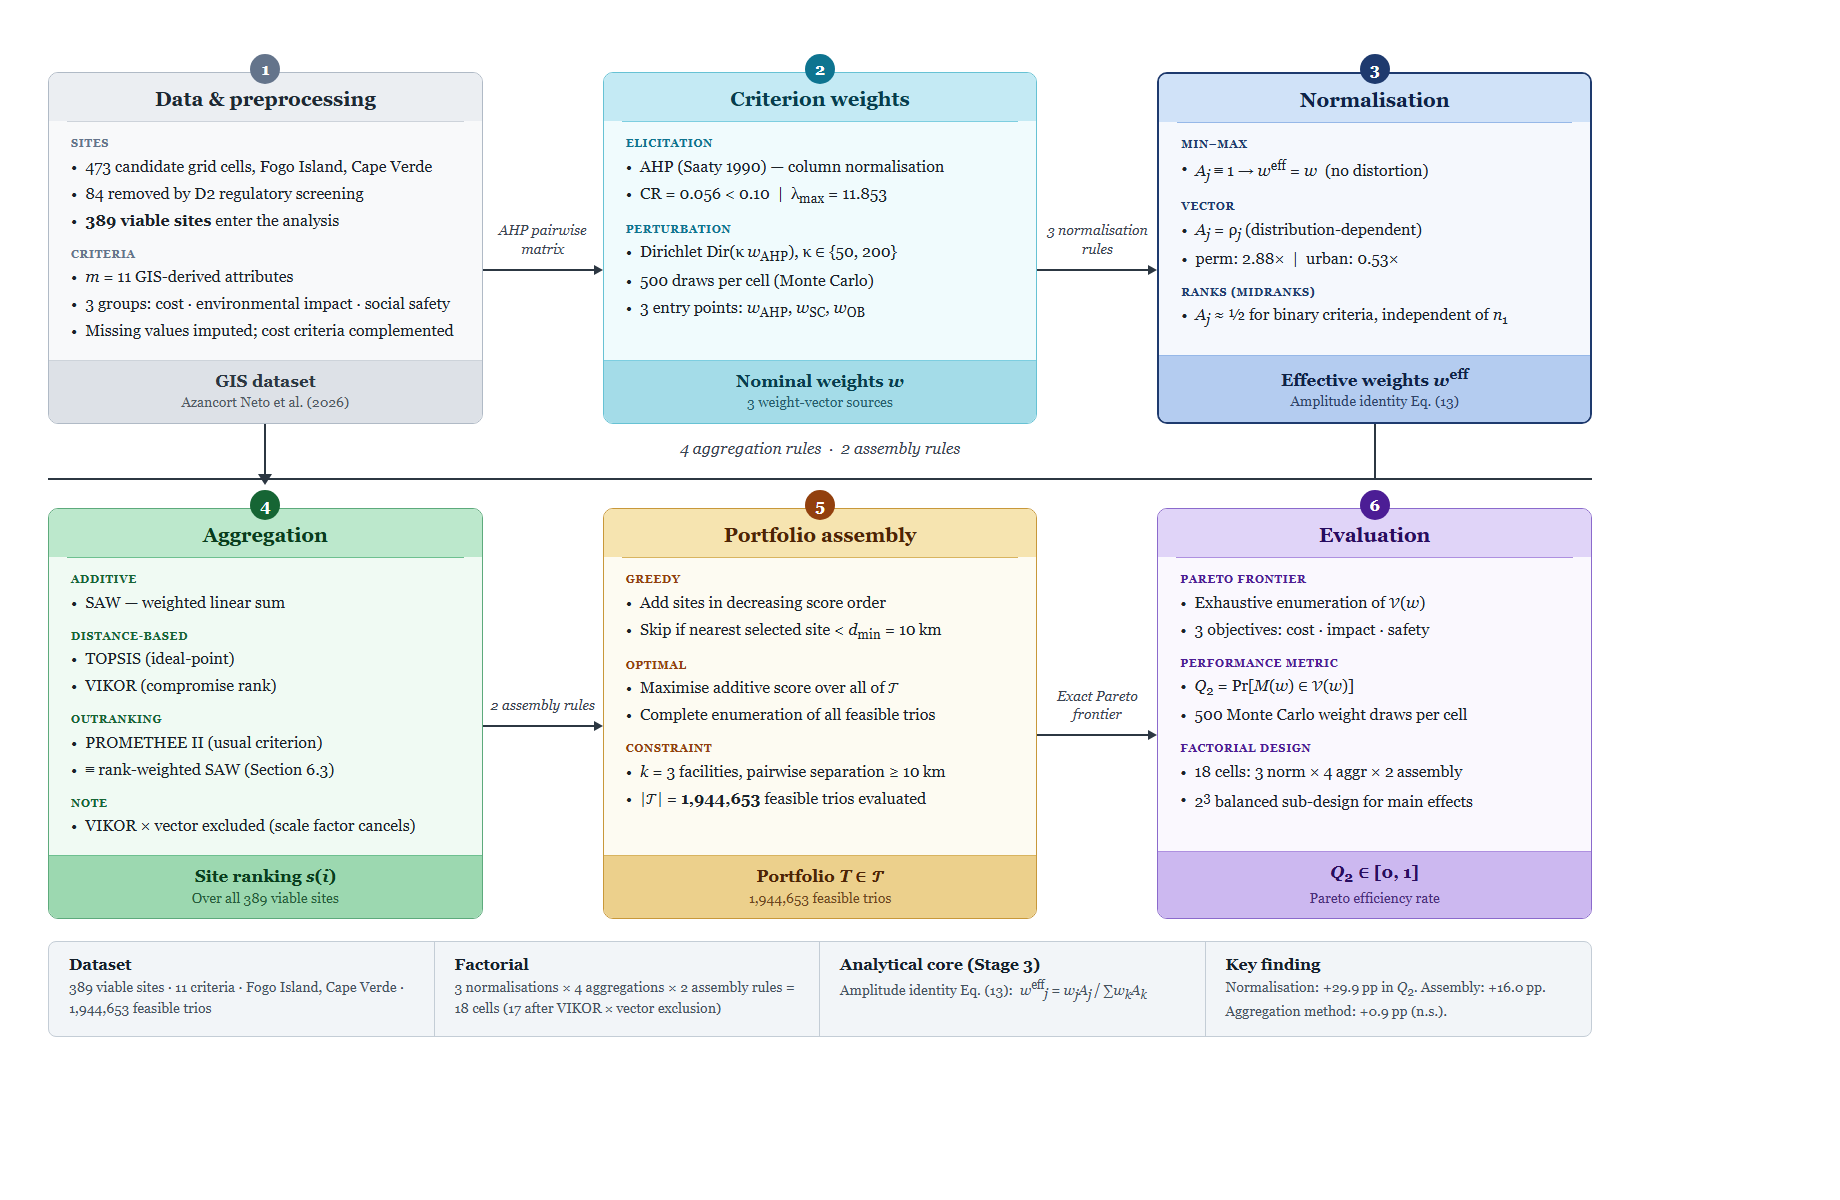
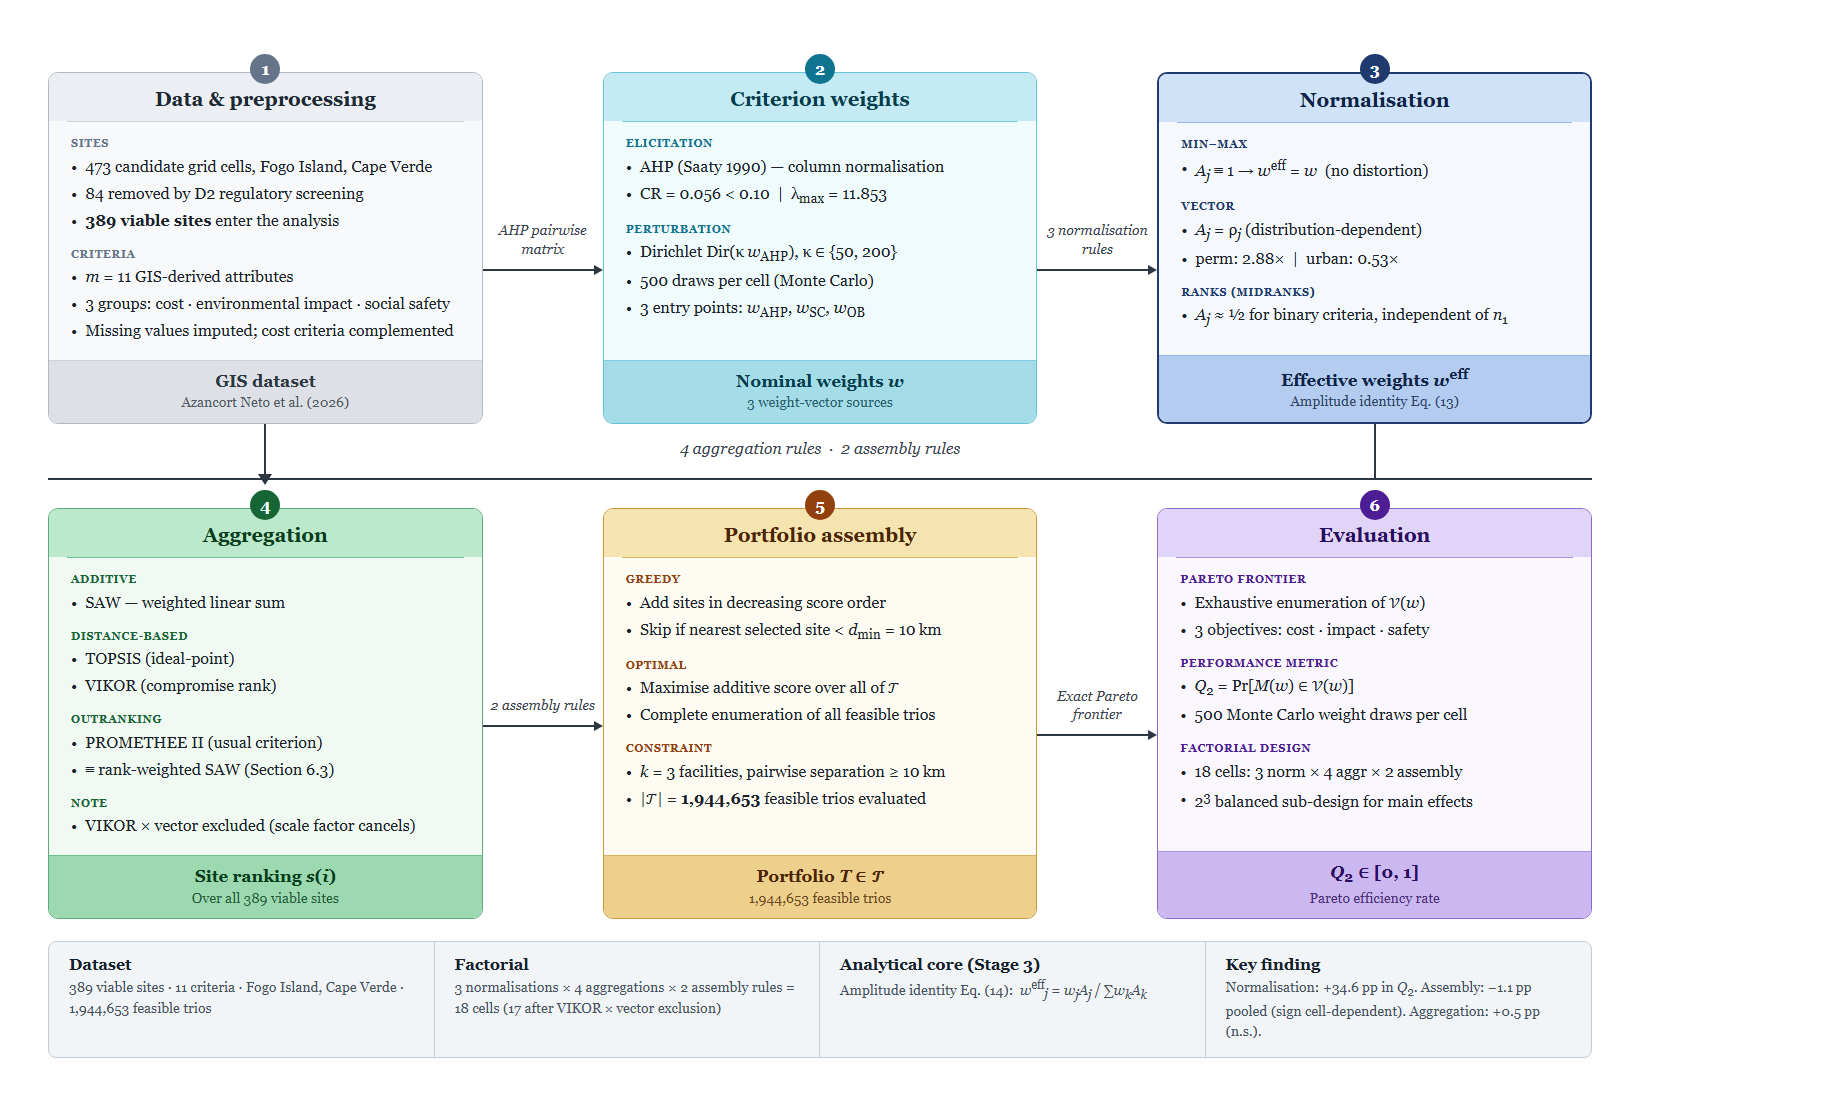
cosmetic: §7.5 post-table text updated; ORCID placeholder+empty fntext removed; Tab6 col shortened (p{5cm}); Fig1 numbers updated (+34.6/−1.1/+0.5pp, Eq.14); Fig1 PNG regenerated; Fig4 regenerated; ALL CHECKS PASSED

Changed region(s): [[0.0, 0.0309, 0.8674, 0.9273], [0.4647, 0.8655, 0.6196, 0.9273]]

diff --git a/figures/src/fig_workflow.html b/figures/src/fig_workflow.html
@@ -413,11 +413,11 @@ body {
     </div>
     <div class="sc">
       <div class="st">Analytical core (Stage&nbsp;3)</div>
-      <div class="ss">Amplitude identity Eq.&nbsp;(13):&nbsp; <em>w</em><sup>eff</sup><sub><em>j</em></sub> = <em>w<sub>j</sub>A<sub>j</sub></em>&thinsp;/&thinsp;&#8721;<em>w<sub>k</sub>A<sub>k</sub></em></div>
+      <div class="ss">Amplitude identity Eq.&nbsp;(14):&nbsp; <em>w</em><sup>eff</sup><sub><em>j</em></sub> = <em>w<sub>j</sub>A<sub>j</sub></em>&thinsp;/&thinsp;&#8721;<em>w<sub>k</sub>A<sub>k</sub></em></div>
     </div>
     <div class="sc">
       <div class="st">Key finding</div>
-      <div class="ss">Normalisation: +29.9&thinsp;pp in <em>Q</em><sub>2</sub>. Assembly: +16.0&thinsp;pp. Aggregation method: +0.9&thinsp;pp (n.s.).</div>
+      <div class="ss">Normalisation: +34.6&thinsp;pp in <em>Q</em><sub>2</sub>. Assembly: &minus;1.1&thinsp;pp pooled (sign cell-dependent). Aggregation: +0.5&thinsp;pp (n.s.).</div>
     </div>
   </div>
 

diff --git a/main.tex b/main.tex
@@ -79,9 +79,8 @@
 \tnotetext[1]{The authors declare no competing interests. No external funding was received for this work.}
 
 % -----------------------------------------------------------------------
-\author[1]{Julio L.~Azancort Neto}[orcid=0000-0000-0000-0000]
+\author[1]{Julio L.~Azancort Neto}
 \cormark[1]
-\fnmark[1]
 \ead{julio.azancort.neto@itec.ufpa.br}
 \credit{Conceptualization, Methodology, Software, Writing -- Original
   Draft, Writing -- Review \& Editing}
@@ -91,7 +90,6 @@
   city={Bel\'em}, state={PA}, country={Brazil}}
 
 \cortext[1]{Corresponding author}
-\fntext[1]{}
 
 % -----------------------------------------------------------------------
 \begin{abstract}
@@ -1907,17 +1905,17 @@ Aggregation & Normalisation, assembly & $Q_2[A']$ \\
 \caption{Contrasts in percentage points of $Q_2[A']$ ($\kappa=200$;
   $\nboot$ bootstrap replicates paired by draw).}
 \label{tab:effects}
-\begin{tabular}{>{\raggedright\arraybackslash}p{5.5cm}rc}
+\begin{tabular}{>{\raggedright\arraybackslash}p{5cm}rc}
 \toprule
 Contrast & Effect & 95\% CI \\
 \midrule
-Normalisation, greedy only (min--max $-$ vector) & $+25.4$ & $[+21.2,\,+29.8]$ \\
-Normalisation, full factorial                    & $+34.6$ & $[+30.7,\,+38.4]$ \\
-Aggregation (SAW $-$ TOPSIS)                     & $+\AggContrast$  & $[\AggLo,\,\AggHi]$ \\
-Assembly (optimal $-$ greedy)                    & $-1.1$  & $[-2.6,\,+0.5]$ \\
+Normalisation, greedy (mm $-$ vec) & $+25.4$ & $[+21.2,\,+29.8]$ \\
+Normalisation, full factorial      & $+34.6$ & $[+30.7,\,+38.4]$ \\
+Aggregation (SAW $-$ TOPSIS)       & $+\AggContrast$ & $[\AggLo,\,\AggHi]$ \\
+Assembly (optimal $-$ greedy)      & $-1.1$ & $[-2.6,\,+0.5]$ \\
 \midrule
-Assembly within min--max                         & $+8.1$  & $[+6.2,\,+10.1]$ \\
-Assembly within vector                           & $-10.2$ & $[-13.1,\,-7.4]$ \\
+Assembly within min--max           & $+8.1$ & $[+6.2,\,+10.1]$ \\
+Assembly within vector             & $-10.2$ & $[-13.1,\,-7.4]$ \\
 \bottomrule
 \end{tabular}
 \end{table}
@@ -2119,10 +2117,15 @@ $\Nvia$  & $A'$ & 86.0\% & \textbf{100.0\%} \\
 \end{tabular}
 \end{table}
 
-Both diagonal cells confirm Section~\ref{prop:p1} (optimal assembly
-must reach $100\%$ when score and evaluator are aligned).
-The off-diagonal cells confirm that score--evaluator coding mismatch
-dominates the reference-set effect.
+Both $A'$-evaluator cells confirm Proposition~\ref{prop:p1:stmt}:
+optimal assembly reaches $100\%$ when score and evaluator share the
+same reference set and criterion encoding.
+The off-diagonal $A$-evaluator cells ($N_{\text{cand}}/A$: greedy
+$84.6\%$, optimal $100\%$; $N_{\text{via}}/A$: greedy $58.8\%$,
+optimal $95\%$) show that using the 473-site normalisation constants
+for the score while evaluating against the 389-site frontier
+reduces efficiency under greedy assembly but not under optimal
+assembly on this instance.
 
 
 
